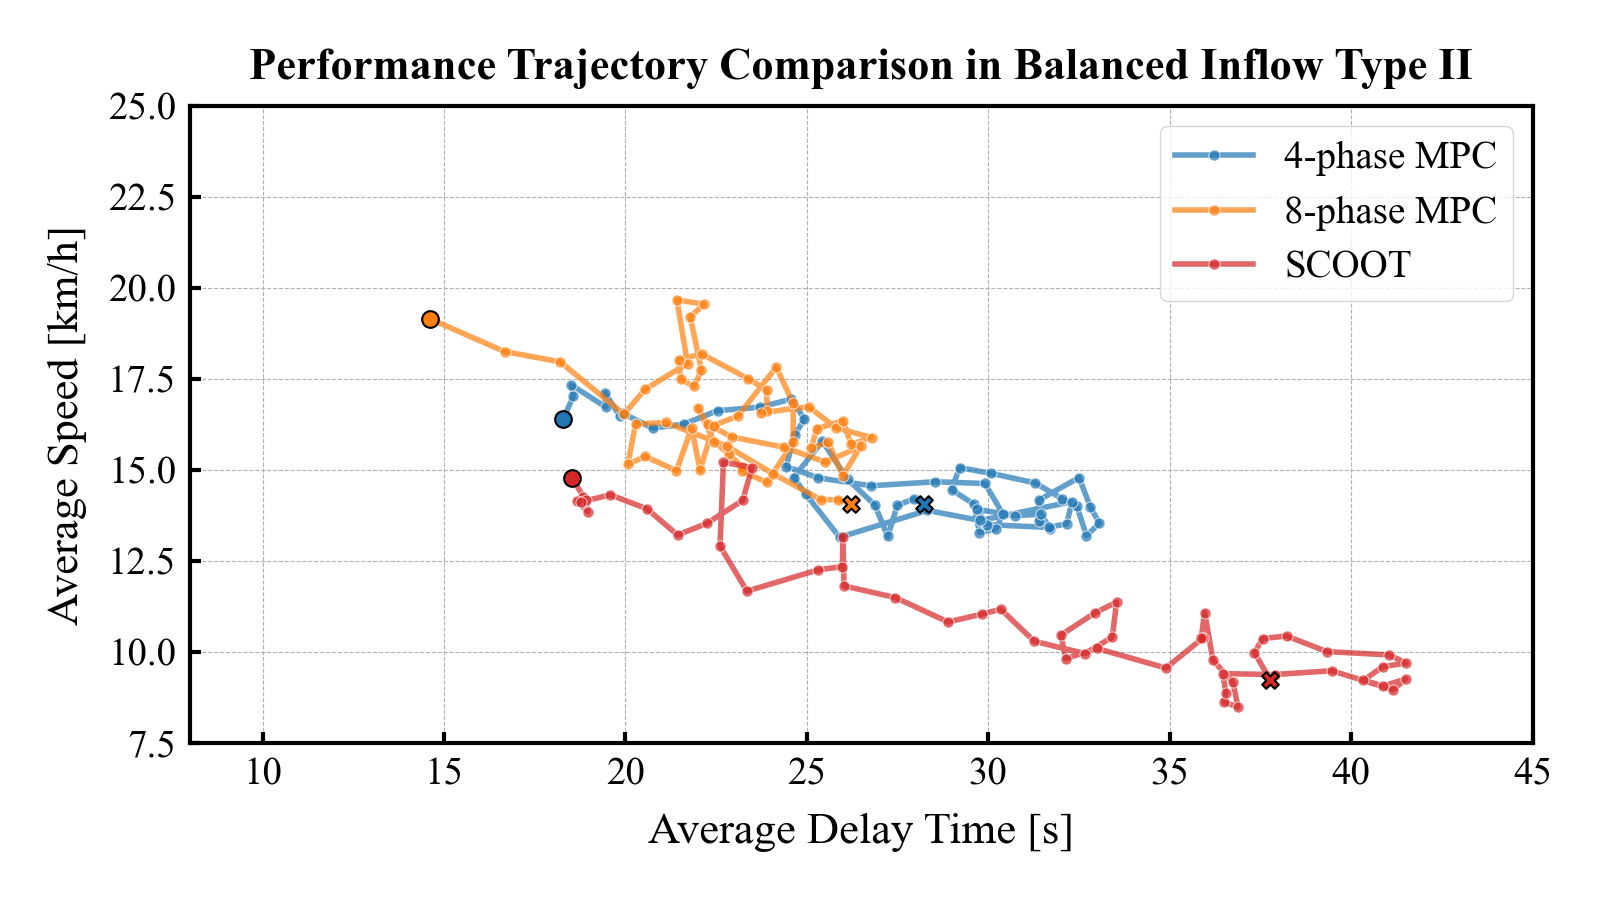
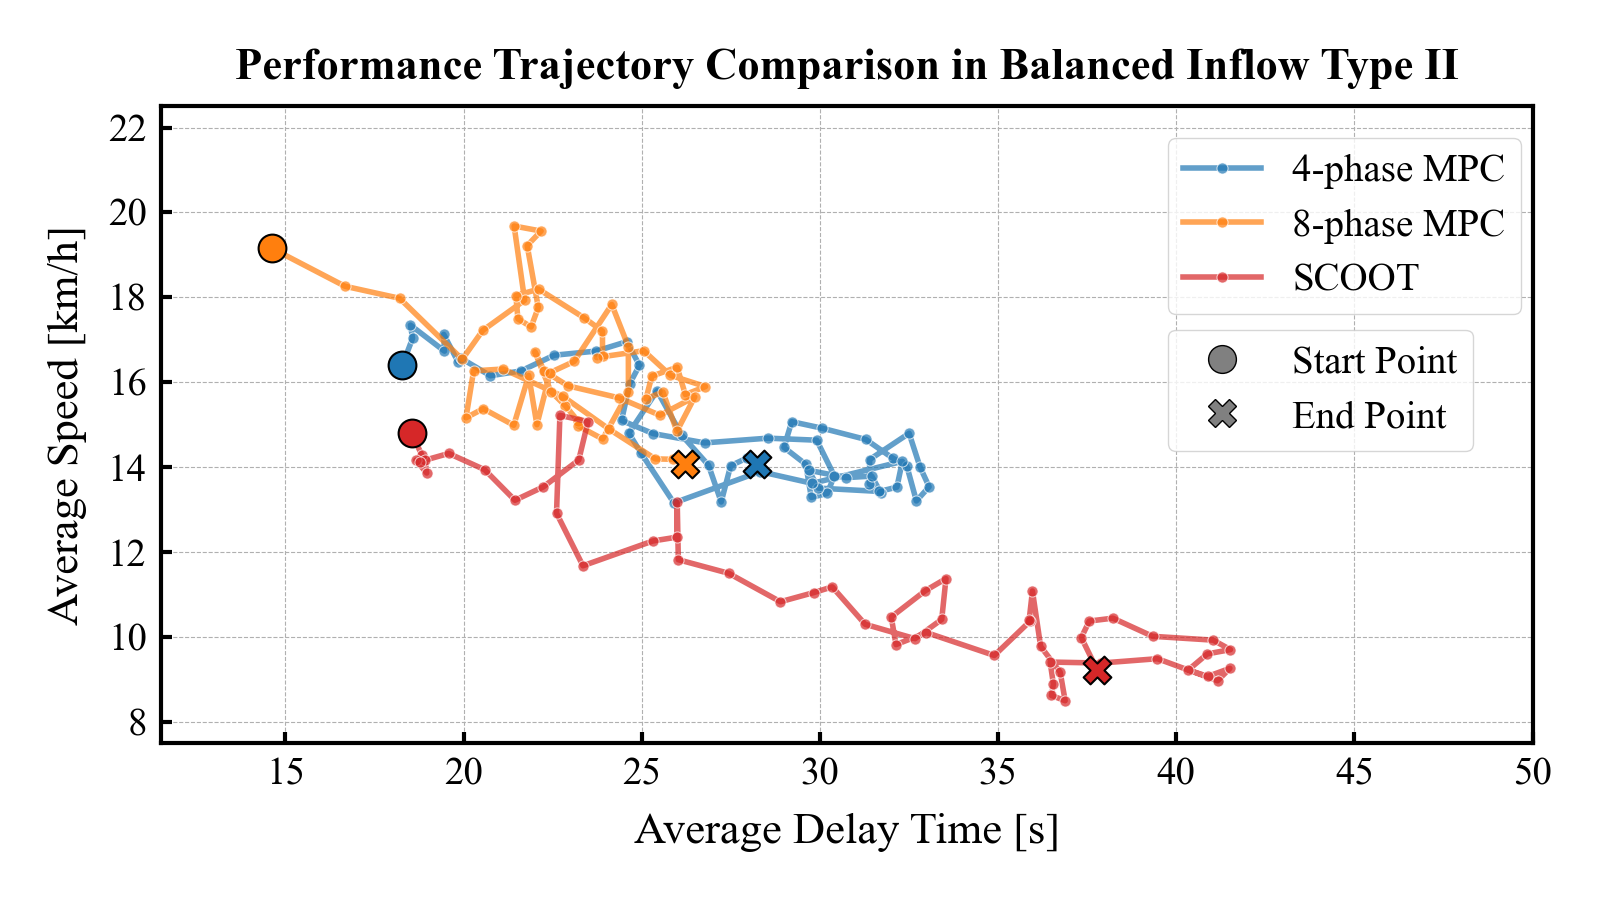
update figures

diff --git a/misc/analysis/performance_trajectory_plots/multiple_intersection/plot.py b/misc/analysis/performance_trajectory_plots/multiple_intersection/plot.py
@@ -4,6 +4,7 @@ root_dir_path = (Path(__file__).parent / '..' / '..' / '..' / '..').resolve()
 sys.path.append(str(root_dir_path))
 
 import matplotlib.pyplot as plt
+from matplotlib.lines import Line2D
 import seaborn as sns
 import pandas as pd
 import yaml
@@ -219,7 +220,34 @@ ax.set_xlabel(config_yaml['figure']['axis']['label'][config_yaml['target']['perf
 ax.set_xlim(left=config_yaml['figure']['axis']['xlim']['left'], right=config_yaml['figure']['axis']['xlim']['right'])
 ax.set_ylabel(config_yaml['figure']['axis']['label'][config_yaml['target']['performance_metrics']['y']])
 ax.set_ylim(bottom=config_yaml['figure']['axis']['ylim']['bottom'], top=config_yaml['figure']['axis']['ylim']['top'])
-ax.legend(title='')
+
+# 凡例用のカスタム要素を作成
+handles, labels = ax.get_legend_handles_labels()
+method_legend = ax.legend(
+    handles=handles, 
+    labels=labels, 
+    title='',
+    loc='upper left',
+    bbox_to_anchor=tuple(config_yaml['figure']['legend']['positions']['method']),
+)
+
+ax.add_artist(method_legend)
+
+point_elements = [
+    Line2D([0], [0], marker=config_yaml['figure']['marker']['shape']['start'], color='w', 
+           markerfacecolor='gray', markersize=config_yaml['figure']['marker']['size']['start'], 
+           markeredgecolor='black', label='Start Point'),
+    Line2D([0], [0], marker=config_yaml['figure']['marker']['shape']['end'], color='w', 
+           markerfacecolor='gray', markersize=config_yaml['figure']['marker']['size']['end'], 
+           markeredgecolor='black', label='End Point')
+]
+point_legend = ax.legend(
+    handles=point_elements, 
+    title='', 
+    loc='upper left',
+    bbox_to_anchor=tuple(config_yaml['figure']['legend']['positions']['point']),
+)
+
 fig.tight_layout()
 
 fig.savefig(save_dir_path / 'performance_trajectory.png', format='png')
